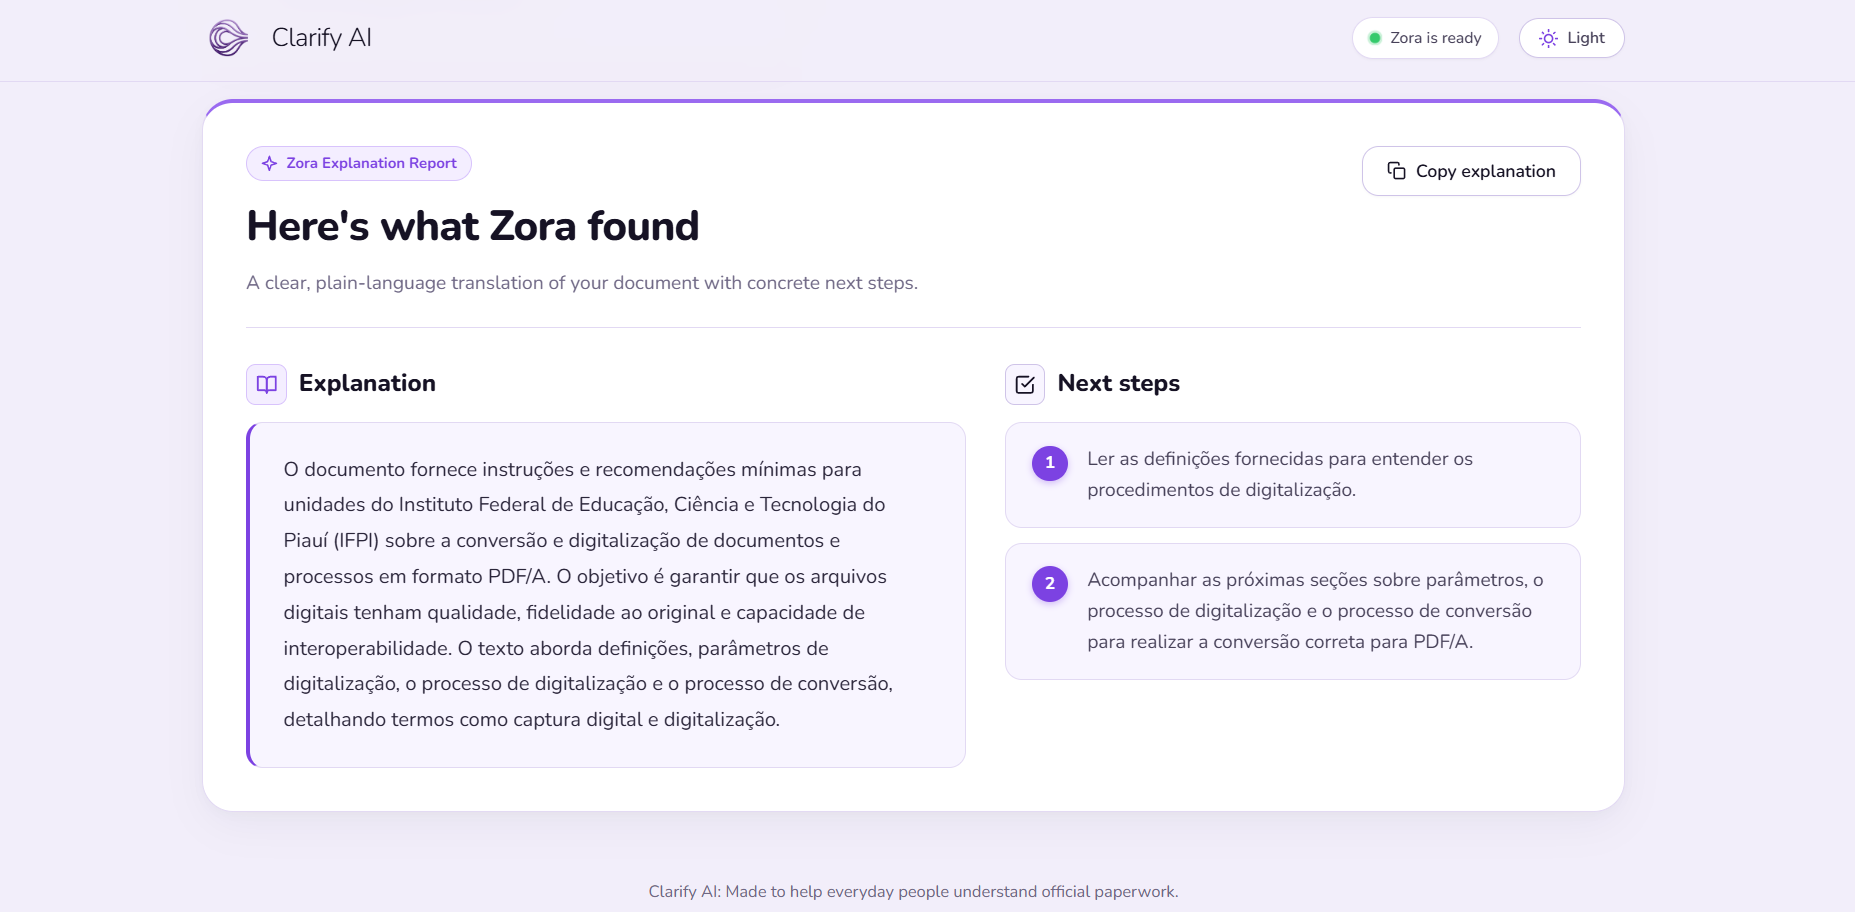
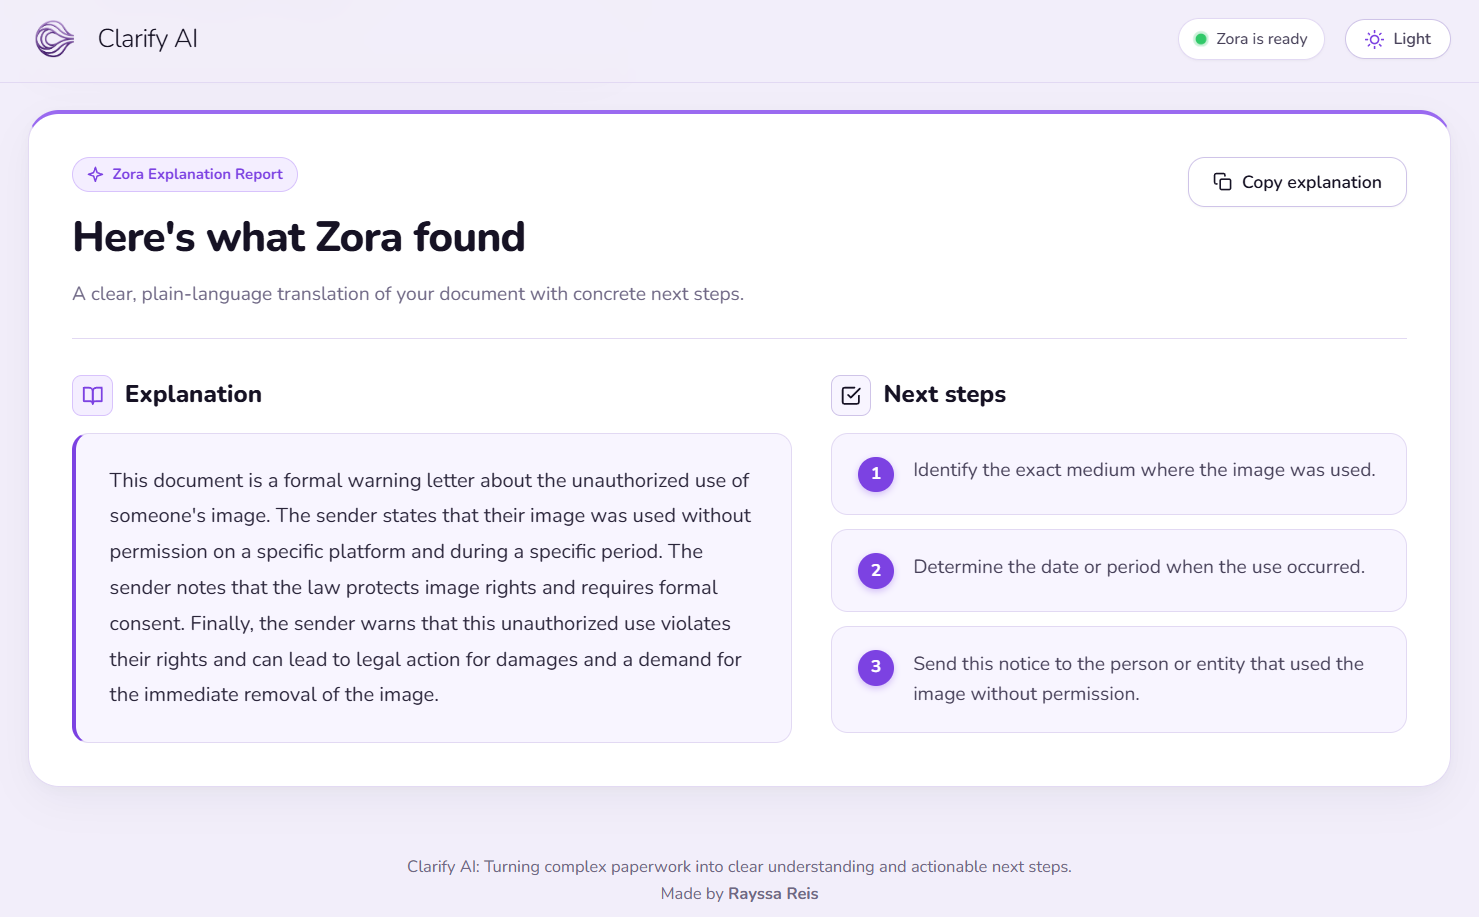
docs: add images and gif to the README

diff --git a/README.md b/README.md
@@ -278,6 +278,8 @@ On Windows:
 
 The test suite covers request validation, controller behavior, OCR integration behavior, Gemini integration behavior, malformed responses, HTTP failures and network failures.
 
+[![Clarify AI overview](docs/assets/Home-gif.gif)](https://rayssaareis.github.io/bureaucracy-translator/)
+
 ## Run It Yourself
 
 ### Prerequisites
@@ -353,8 +355,9 @@ On Windows:
 ```powershell
 .\gradlew.bat clean test
 ```
+<br>
 
-
+[![Clarify AI overview](docs/assets/English.png)](https://rayssaareis.github.io/bureaucracy-translator/)
 
 ## Project Structure
 
@@ -460,3 +463,7 @@ Clarify AI was built as a hackathon project with a simple goal:
 Clarify AI is a hackathon project created by Rayssa Reis.
 
 The project is shared for educational and portfolio purposes. No open-source license has been applied at this time.
+
+<br>
+
+[![Clarify AI overview](docs/assets/banner.png)](https://rayssaareis.github.io/bureaucracy-translator/)
